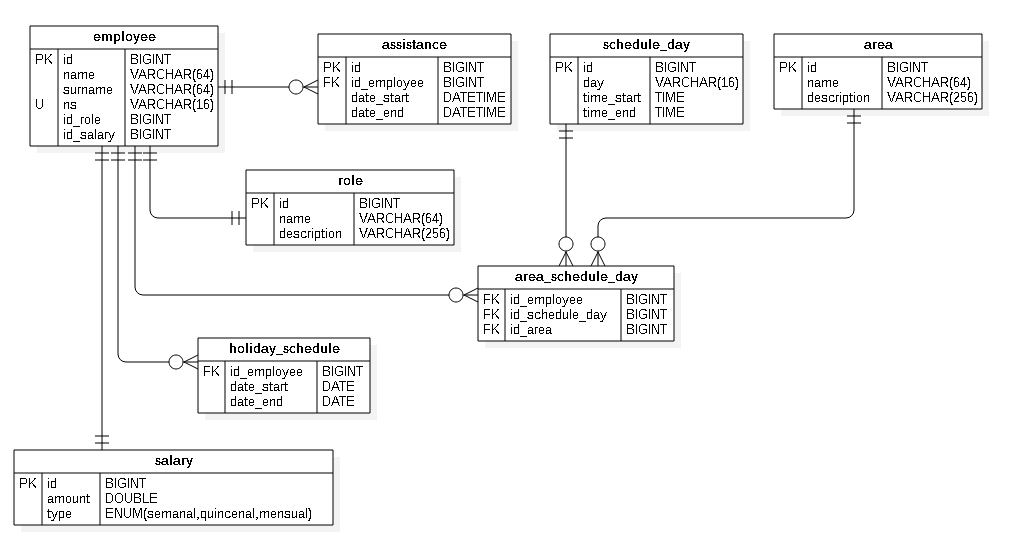
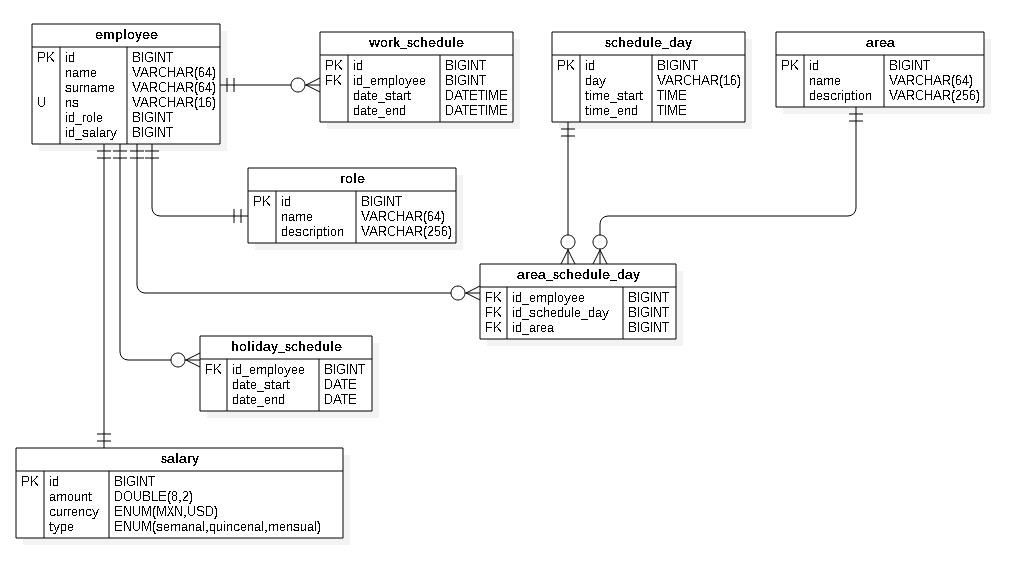
Creación de migraciones de DB, y pequeños cambios en ls DB

Changed region(s): [[0.0, 0.0307, 0.7316, 0.9837], [0.1524, 0.0307, 0.9754, 0.6456], [0.2439, 0.2767, 0.4572, 0.4611]]

diff --git a/database/migrations/2023_03_15_063509_create_area_schedule_day_table.php b/database/migrations/2023_03_15_063509_create_area_schedule_day_table.php
@@ -1,0 +1,37 @@
+<?php
+
+use Illuminate\Database\Migrations\Migration;
+use Illuminate\Database\Schema\Blueprint;
+use Illuminate\Support\Facades\Schema;
+
+return new class extends Migration
+{
+    /**
+     * Run the migrations.
+     *
+     * @return void
+     */
+    public function up()
+    {
+        Schema::create('area_schedule_day', function (Blueprint $table) {
+            $table->id();
+            $table->bigInteger('id_employee')->unsigned();
+            $table->bigInteger('id_schedule_day')->unsigned();
+            $table->bigInteger('id_area')->unsigned();
+            $table->timestamps();
+            $table->foreign('id_employee')->references('id')->on('employee');
+            $table->foreign('id_schedule_day')->references('id')->on('schedule_day');
+            $table->foreign('id_area')->references('id')->on('area');
+        });
+    }
+
+    /**
+     * Reverse the migrations.
+     *
+     * @return void
+     */
+    public function down()
+    {
+        Schema::dropIfExists('area_schedule_day');
+    }
+};

diff --git a/database/migrations/2023_03_15_062603_create_employee_table.php b/database/migrations/2023_03_15_062603_create_employee_table.php
@@ -1,0 +1,38 @@
+<?php
+
+use Illuminate\Database\Migrations\Migration;
+use Illuminate\Database\Schema\Blueprint;
+use Illuminate\Support\Facades\Schema;
+
+return new class extends Migration
+{
+    /**
+     * Run the migrations.
+     *
+     * @return void
+     */
+    public function up()
+    {
+        Schema::create('employee', function (Blueprint $table) {
+            $table->id();
+            $table->string('name',64);
+            $table->string('surname',64);
+            $table->string('ns',16);
+            $table->bigInteger('id_role')->unsigned();
+            $table->bigInteger('id_salary')->unsigned();
+            $table->timestamps();
+            $table->foreign('id_role')->references('id')->on('role');
+            $table->foreign('id_salary')->references('id')->on('salary');
+        });
+    }
+
+    /**
+     * Reverse the migrations.
+     *
+     * @return void
+     */
+    public function down()
+    {
+        Schema::dropIfExists('employee');
+    }
+};

diff --git a/database/migrations/2023_03_15_063035_create_work_schedule_table.php b/database/migrations/2023_03_15_063035_create_work_schedule_table.php
@@ -1,0 +1,35 @@
+<?php
+
+use Illuminate\Database\Migrations\Migration;
+use Illuminate\Database\Schema\Blueprint;
+use Illuminate\Support\Facades\Schema;
+
+return new class extends Migration
+{
+    /**
+     * Run the migrations.
+     *
+     * @return void
+     */
+    public function up()
+    {
+        Schema::create('work_schedule', function (Blueprint $table) {
+            $table->id();
+            $table->bigInteger('id_employee')->unsigned();
+            $table->dateTime('date_start');
+            $table->dateTime('date_end');
+            $table->timestamps();
+            $table->foreign('id_employee')->references('id')->on('employee');
+        });
+    }
+
+    /**
+     * Reverse the migrations.
+     *
+     * @return void
+     */
+    public function down()
+    {
+        Schema::dropIfExists('work_schedule');
+    }
+};

diff --git a/database/migrations/2023_03_15_063418_create_holiday_schedule_table.php b/database/migrations/2023_03_15_063418_create_holiday_schedule_table.php
@@ -1,0 +1,35 @@
+<?php
+
+use Illuminate\Database\Migrations\Migration;
+use Illuminate\Database\Schema\Blueprint;
+use Illuminate\Support\Facades\Schema;
+
+return new class extends Migration
+{
+    /**
+     * Run the migrations.
+     *
+     * @return void
+     */
+    public function up()
+    {
+        Schema::create('holiday_schedule', function (Blueprint $table) {
+            $table->id();
+            $table->bigInteger('id_employee')->unsigned();
+            $table->date('date_start');
+            $table->date('date_end');
+            $table->timestamps();
+            $table->foreign('id_employee')->references('id')->on('employee');
+        });
+    }
+
+    /**
+     * Reverse the migrations.
+     *
+     * @return void
+     */
+    public function down()
+    {
+        Schema::dropIfExists('holiday_schedule');
+    }
+};

diff --git a/database/migrations/2023_03_15_061847_create_salary_table.php b/database/migrations/2023_03_15_061847_create_salary_table.php
@@ -1,0 +1,34 @@
+<?php
+
+use Illuminate\Database\Migrations\Migration;
+use Illuminate\Database\Schema\Blueprint;
+use Illuminate\Support\Facades\Schema;
+
+return new class extends Migration
+{
+    /**
+     * Run the migrations.
+     *
+     * @return void
+     */
+    public function up()
+    {
+        Schema::create('salary', function (Blueprint $table) {
+            $table->id();
+            $table->double('amount',8,2);
+            $table->enum('currency',['MXN','USD']);
+            $table->enum('type',['semanal','quincenal','mensual']);
+            $table->timestamps();
+        });
+    }
+
+    /**
+     * Reverse the migrations.
+     *
+     * @return void
+     */
+    public function down()
+    {
+        Schema::dropIfExists('salary');
+    }
+};

diff --git a/database/migrations/2023_03_15_061626_create_schedule_day_table.php b/database/migrations/2023_03_15_061626_create_schedule_day_table.php
@@ -1,0 +1,34 @@
+<?php
+
+use Illuminate\Database\Migrations\Migration;
+use Illuminate\Database\Schema\Blueprint;
+use Illuminate\Support\Facades\Schema;
+
+return new class extends Migration
+{
+    /**
+     * Run the migrations.
+     *
+     * @return void
+     */
+    public function up()
+    {
+        Schema::create('schedule_day', function (Blueprint $table) {
+            $table->id();
+            $table->string('day',16);
+            $table->time('time_start');
+            $table->time('time_end');
+            $table->timestamps();
+        });
+    }
+
+    /**
+     * Reverse the migrations.
+     *
+     * @return void
+     */
+    public function down()
+    {
+        Schema::dropIfExists('schedule_day');
+    }
+};

diff --git a/database/migrations/2023_03_15_061504_create_area_table.php b/database/migrations/2023_03_15_061504_create_area_table.php
@@ -1,0 +1,33 @@
+<?php
+
+use Illuminate\Database\Migrations\Migration;
+use Illuminate\Database\Schema\Blueprint;
+use Illuminate\Support\Facades\Schema;
+
+return new class extends Migration
+{
+    /**
+     * Run the migrations.
+     *
+     * @return void
+     */
+    public function up()
+    {
+        Schema::create('area', function (Blueprint $table) {
+            $table->id();
+            $table->string('name',64);
+            $table->string('description',256);
+            $table->timestamps();
+        });
+    }
+
+    /**
+     * Reverse the migrations.
+     *
+     * @return void
+     */
+    public function down()
+    {
+        Schema::dropIfExists('area');
+    }
+};

diff --git a/database/migrations/2023_03_15_061752_create_role_table.php b/database/migrations/2023_03_15_061752_create_role_table.php
@@ -1,0 +1,33 @@
+<?php
+
+use Illuminate\Database\Migrations\Migration;
+use Illuminate\Database\Schema\Blueprint;
+use Illuminate\Support\Facades\Schema;
+
+return new class extends Migration
+{
+    /**
+     * Run the migrations.
+     *
+     * @return void
+     */
+    public function up()
+    {
+        Schema::create('role', function (Blueprint $table) {
+            $table->id();
+            $table->string('name',64);
+            $table->string('description',256);
+            $table->timestamps();
+        });
+    }
+
+    /**
+     * Reverse the migrations.
+     *
+     * @return void
+     */
+    public function down()
+    {
+        Schema::dropIfExists('role');
+    }
+};

diff --git a/config/database.php b/config/database.php
@@ -57,7 +57,7 @@ return [
             'prefix' => '',
             'prefix_indexes' => true,
             'strict' => true,
-            'engine' => null,
+            'engine' => 'InnoDB',
             'options' => extension_loaded('pdo_mysql') ? array_filter([
                 PDO::MYSQL_ATTR_SSL_CA => env('MYSQL_ATTR_SSL_CA'),
             ]) : [],
